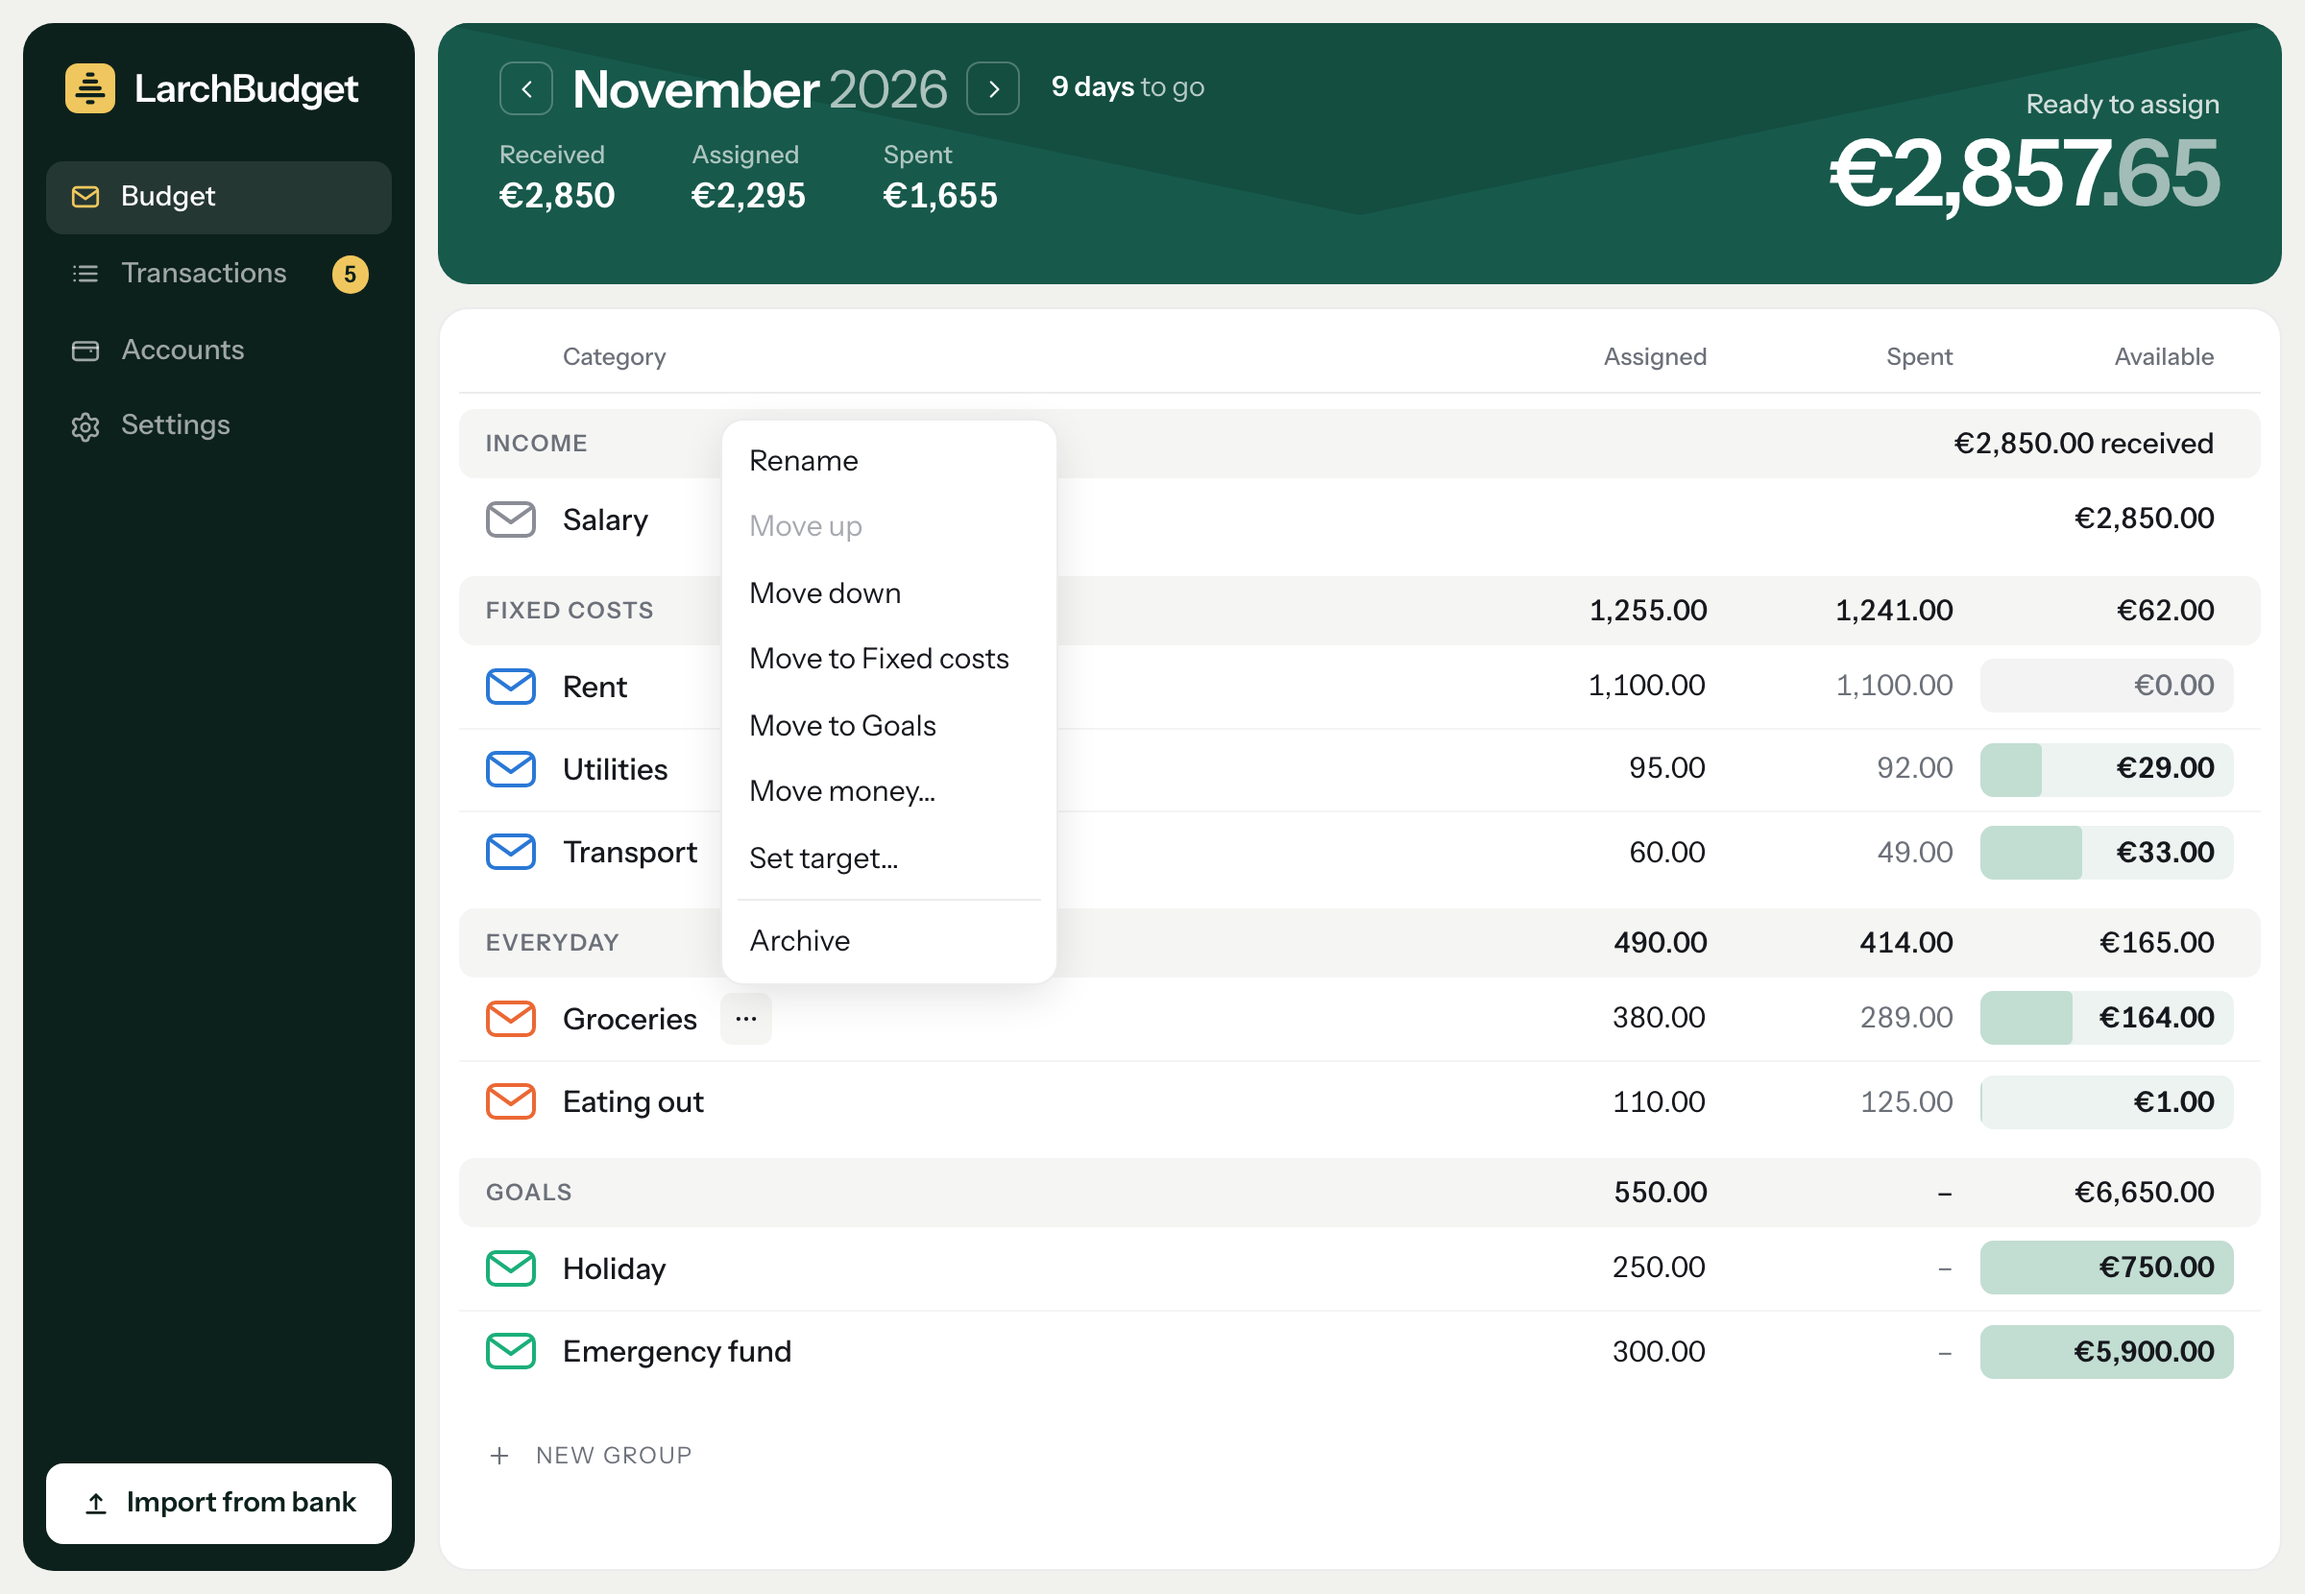
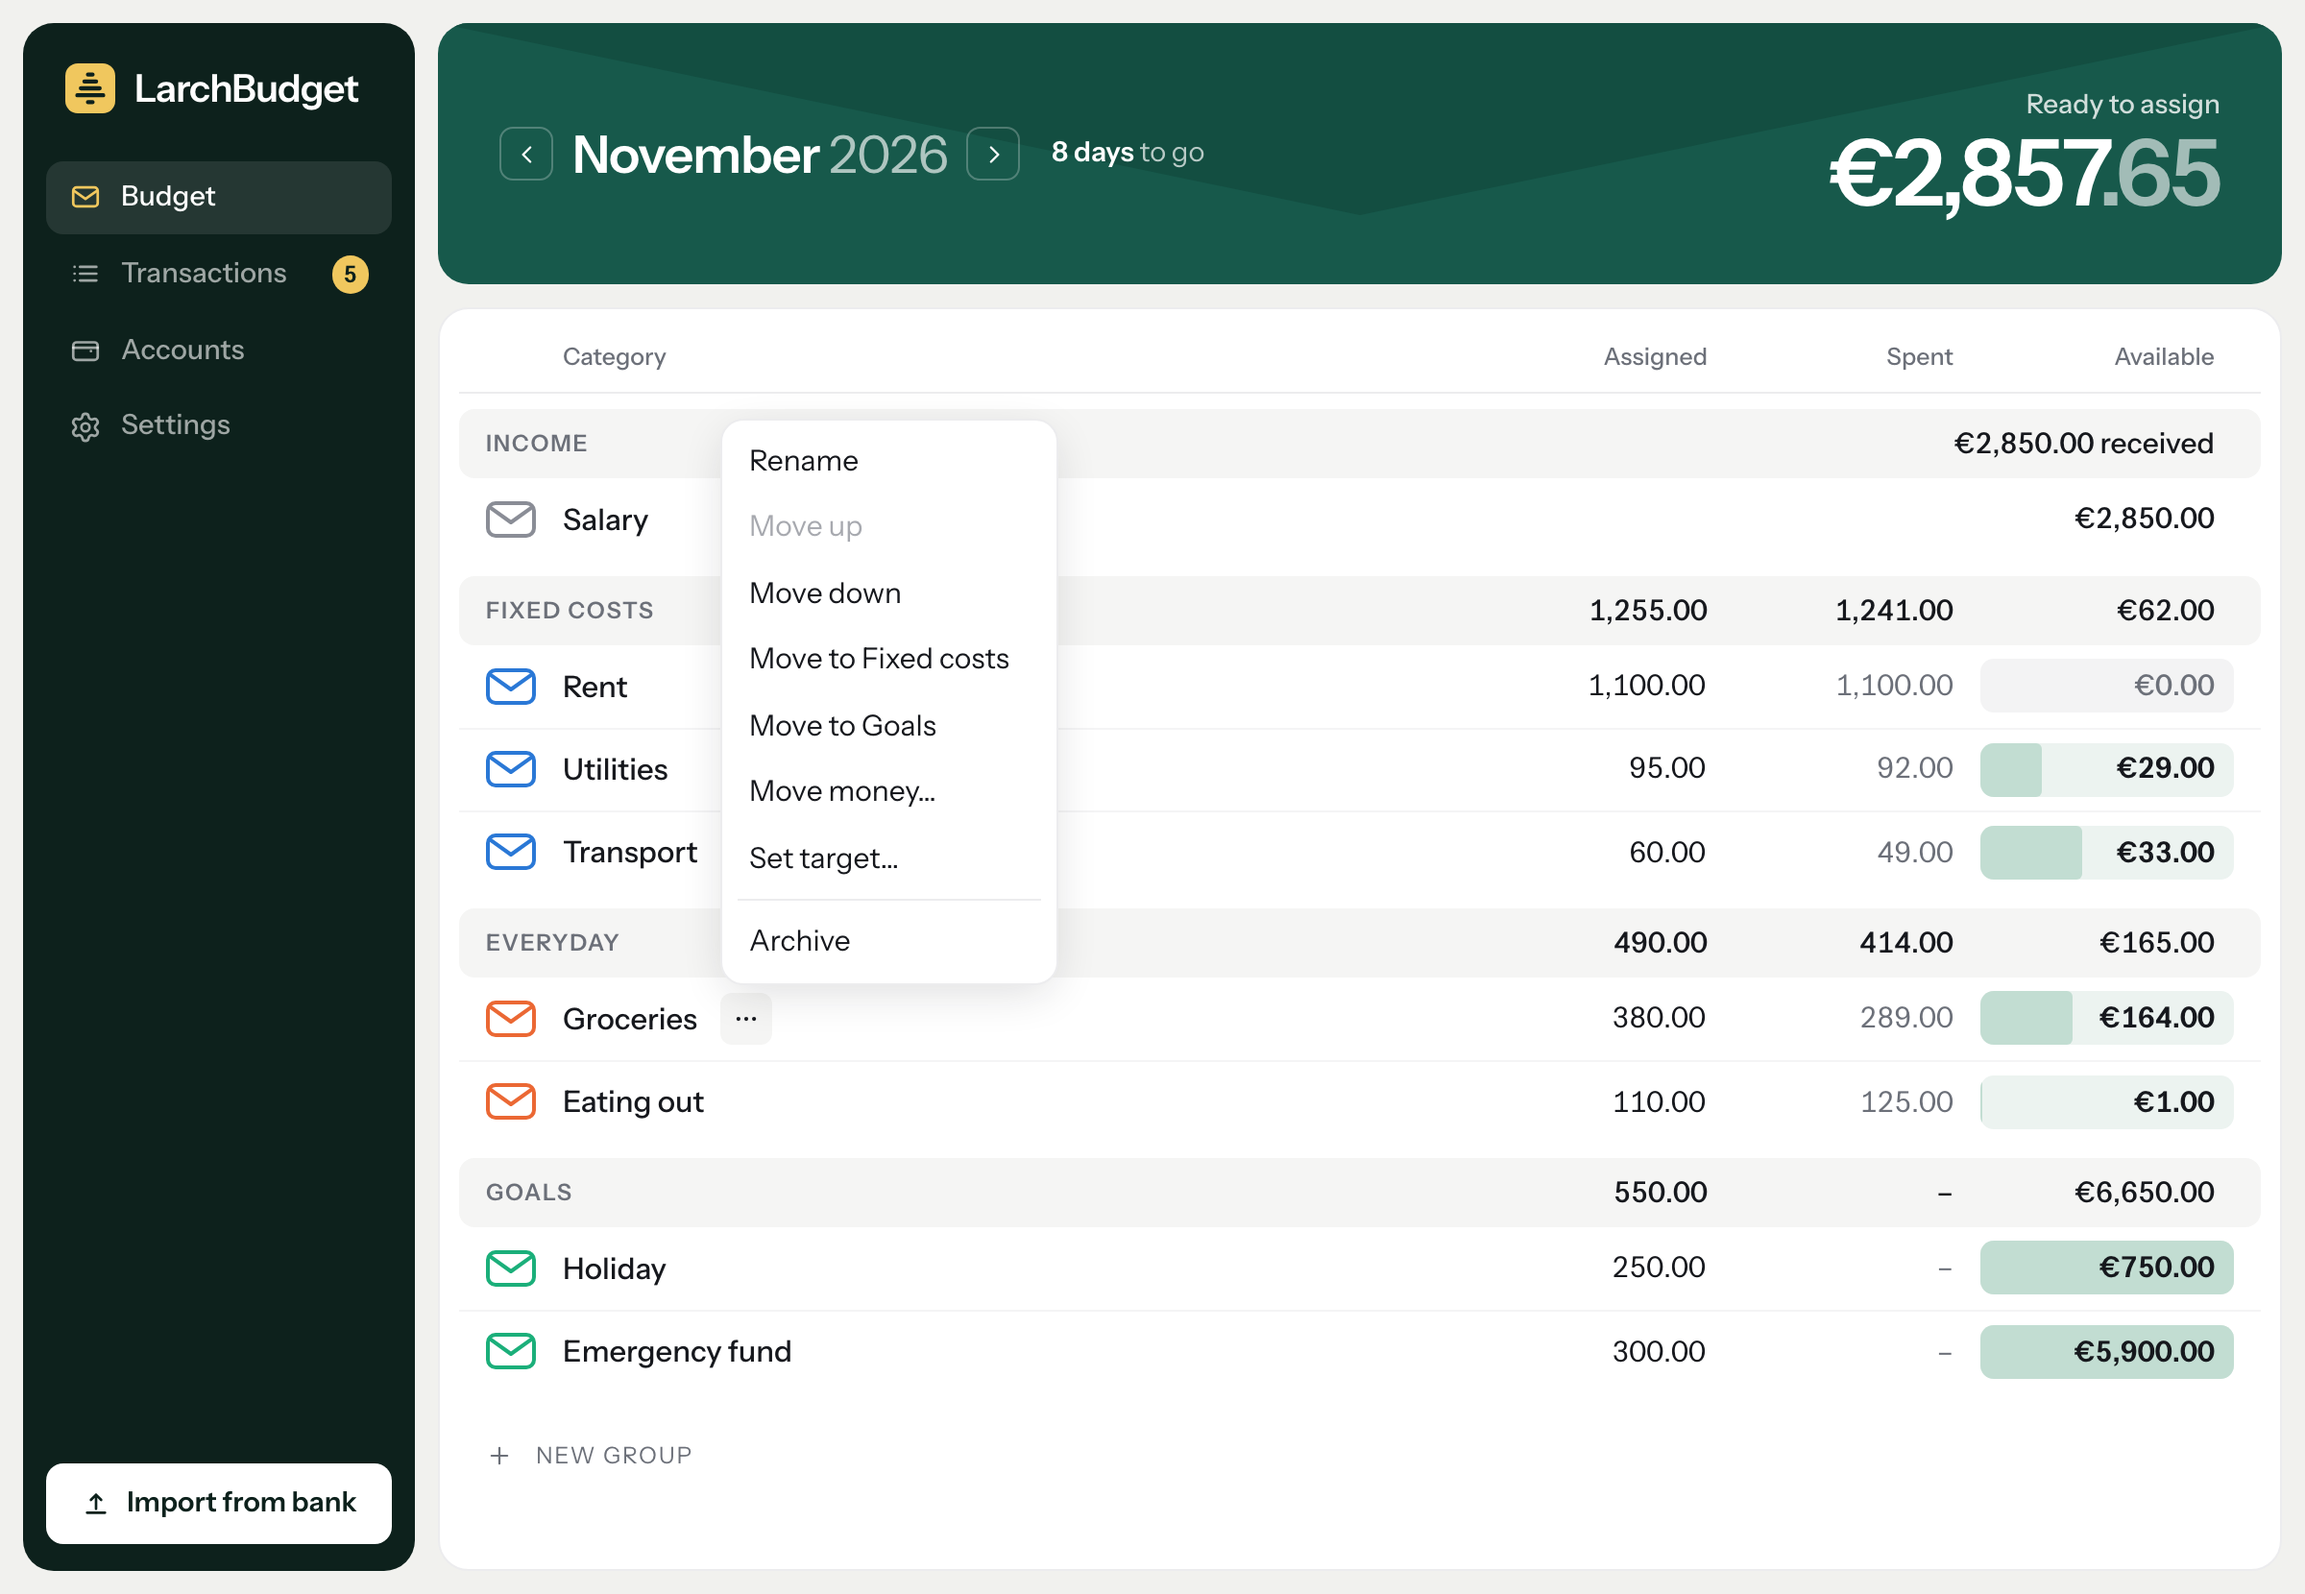
Read Assigned from the Ready to assign card in the targets guide and tests
With the figures gone from under the month, the guide's end-of-month steps
now say to click Ready to assign to compare what was received with what
was assigned, and the test of Assign targets reads what was assigned in
the month from the card's line instead of the Assigned figure. The
pictures of the budget are taken again: the header without the figures,
and the menu with Set target.

Changed region(s): [[0.2188, 0.0307, 0.4375, 0.1536], [0.4688, 0.0922, 0.5, 0.1229], [0.4688, 0.0307, 0.5, 0.0614]]

diff --git a/e2e/targets.e2e.ts b/e2e/targets.e2e.ts
@@ -8,14 +8,16 @@ import {
   assignAndSave,
   assignedField,
   available,
+  breakdownLine,
   categoryRow,
   countAnswers,
   groupTotal,
   headerFigure,
   menuButton,
   menuItem,
+  monthFromNow,
   openMenu,
-  overviewFigure,
+  openReadyBreakdown,
   slowConnection,
 } from "./helpers";
 import { expect, test } from "./fixtures";
@@ -366,7 +368,10 @@ test.describe("with an account and categories", () => {
     await assignAndSave(page, "Rent", "300");
     await assignAndSave(page, "Eating out", "80");
     await expect(headerFigure(page)).toHaveText("€2,620.00");
-    await expect(overviewFigure(page, "Assigned")).toHaveText("€380");
+    const assignedThisMonth = () => breakdownLine(page, `Assigned in ${monthFromNow(0)}`);
+    await openReadyBreakdown(page);
+    await expect(assignedThisMonth()).toHaveText("− €380.00");
+    await page.keyboard.press("Escape");
     await expect(assignTargetsButton(page)).toHaveText("€1,371.43 to assign");
 
     // Everything shows before the server has answered.
@@ -379,7 +384,6 @@ test.describe("with an account and categories", () => {
     await expect(assignedField(page, "Holiday")).toHaveValue("171.43", atOnce);
     await expect(assignedField(page, "Eating out")).toHaveValue("80.00", atOnce);
     await expect(headerFigure(page)).toHaveText("€1,248.57", atOnce);
-    await expect(overviewFigure(page, "Assigned")).toHaveText("€1,751", atOnce);
     await expect(anyTargetButton(page)).toHaveCount(0, atOnce);
     await expect(assignTargetsButton(page)).toHaveCount(0, atOnce);
     await expect(mark(page, "Holiday")).toHaveAttribute(
@@ -387,6 +391,9 @@ test.describe("with an account and categories", () => {
       `Target: €1,200 by ${monthLabel(6, "long")} · reached.`,
       atOnce,
     );
+    await openReadyBreakdown(page);
+    await expect(assignedThisMonth()).toHaveText("− €1,751.43", atOnce);
+    await page.keyboard.press("Escape");
 
     // And it is stored.
     await answered;

diff --git a/docs/using.md b/docs/using.md
@@ -136,8 +136,9 @@ At the end of the month:
 1. Your salary comes in, and [counts for the next month](#income).
 2. Open the next month with the arrow beside the month.
 3. Choose **◎ … to assign** under the month.
-4. Compare **Received** with **Assigned** under the month. What is left
-   stays in Ready to assign, free for anything else.
+4. Click **Ready to assign** to compare what was received for the month
+   with what you assigned in it. What is left stays in Ready to assign, free
+   for anything else.
 
 ## Income
 
